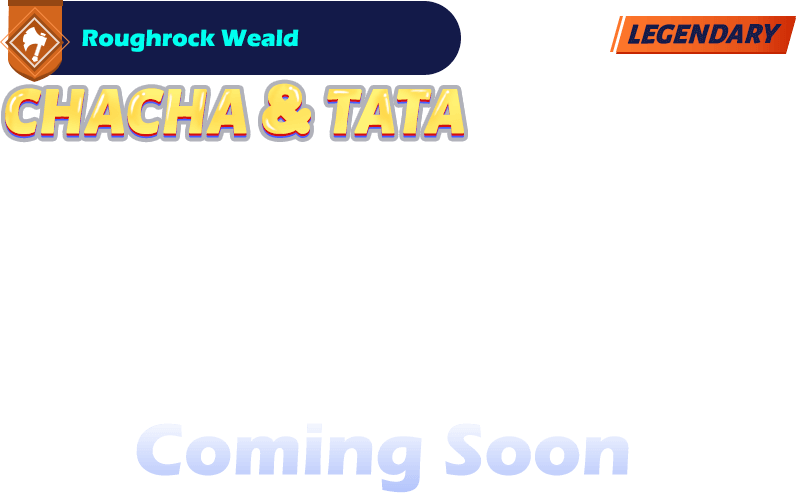
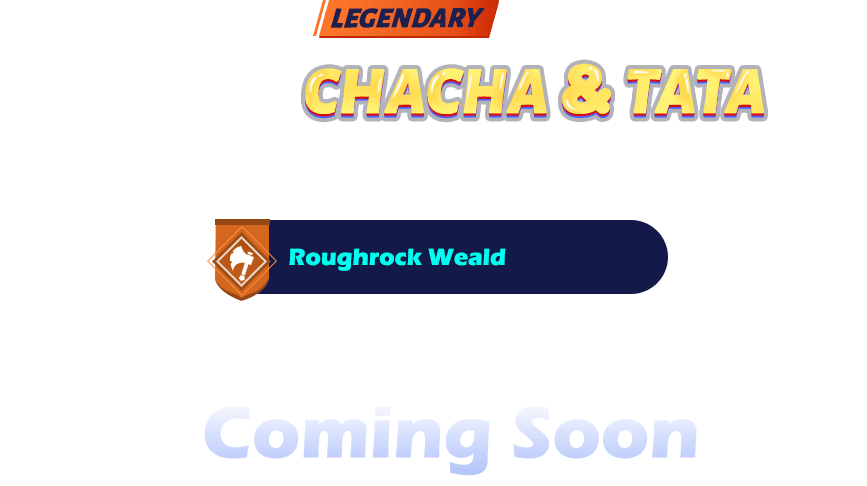
第三页适配

Changed region(s): [[0.0, 0.0, 1.0, 0.3086], [0.2412, 0.4321, 0.7839, 0.6173], [0.1508, 0.8642, 0.8141, 1.0]]

diff --git a/src/views/home/components/homePage3.vue b/src/views/home/components/homePage3.vue
@@ -5,7 +5,12 @@
       class="img3"
       src="../../../assets/images/P3/01/p3_man2.png"
     />
-    <div class="title">
+    <div
+      class="title ani"
+      swiper-animate-effect="fadeInDown"
+      swiper-animate-duration=".5s"
+      swiper-animate-delay=".2s"
+    >
       <span class="font-light">
         Get your NFTs item by marketplace,summon your Legion and make money!
       </span>
@@ -15,12 +20,8 @@
       src="../../../assets/images/P3/p3_chebian.png"
       alt=""
     />
-    <div class="content">
-      <swiper
-        class="page3-swiper"
-        ref="mySwiper"
-        :options="swiperOptions"
-      >
+    <div class="content" ref="content">
+      <swiper class="page3-swiper" ref="mySwiper" :options="swiperOptions">
         <swiper-slide class="item-box">
           <img
             class="img1 ani2 ani"
@@ -36,7 +37,7 @@
             src="../../../assets/images/P3/p3_kuang.png"
           />
           <img
-            class="img2 ani2 ani "
+            class="img2 ani2 ani"
             swiper-animate-effect="fadeInLeft"
             swiper-animate-duration=".8s"
             swiper-animate-delay=".4s"
@@ -248,10 +249,34 @@ export default {
       this.activeIndex += num;
       this.swiper.slideTo(this.activeIndex, 500, true);
     },
+    setContentScale() {
+      let winW = window.innerWidth;
+      let winH = window.innerHeight;
+      let scale = 1;
+      //需要是缩小的屏幕尺寸
+      if (winH < 900 || winW < 1500) {
+        if (winH / winW >= 900 / 1500) {
+          scale = winW / 1800;
+        } else {
+          scale = winH / 900;
+        }
+      }
+      if (winH < 900) {
+        this.$refs.content.style.bottom = "-" + winH * (0.8 + -scale) + "px";
+      }
+      console.log(scale);
+      this.$refs.content.style.transform = "scale(" + scale + ")";
+    },
   },
   watch: {},
   created() {},
-  mounted() {},
+  async mounted() {
+    await this.$nextTick();
+    this.setContentScale();
+    window.onresize = () => {
+      this.setContentScale();
+    };
+  },
   updated() {},
   beforeDestroy() {},
   destroyed() {},
@@ -290,14 +315,11 @@ export default {
 
 .content {
   width: 1200px;
-  max-width: 70%;
   height: 700px;
-  max-height: 80vh;
   position: absolute;
   bottom: 0;
   left: 50%;
-  transform: translateX(-50%);
-  //background: rgba(0, 0, 0, 0.5);
+  margin-left: -600px;
   .btn-bar {
     height: 100px;
     position: relative;
@@ -347,7 +369,8 @@ export default {
 }
 
 .page3-swiper {
-  height: calc(100% - 100px);
+  height: 600px;
+  width: 1200px;
 }
 
 .item-box {
@@ -355,7 +378,7 @@ export default {
 
   .img1 {
     width: calc(100% - 50px);
-    height: 40vh;
+    height: 450px;
     position: absolute;
     bottom: 0;
     left: 25px;
@@ -363,7 +386,7 @@ export default {
 
   .img0 {
     width: calc(100% - 50px);
-    height: auto;
+    height: 450px;
     position: absolute;
     bottom: 0;
     left: 25px;
@@ -437,14 +460,14 @@ export default {
 
   .coming-soon {
     position: absolute;
-    top: 10vh;
+    top: 0;
     right: 0;
     height: 40vh;
   }
 
   .coming-soon1 {
     position: absolute;
-    top: 8vh;
+    top: 0;
     right: 0;
     height: 25vh;
   }
